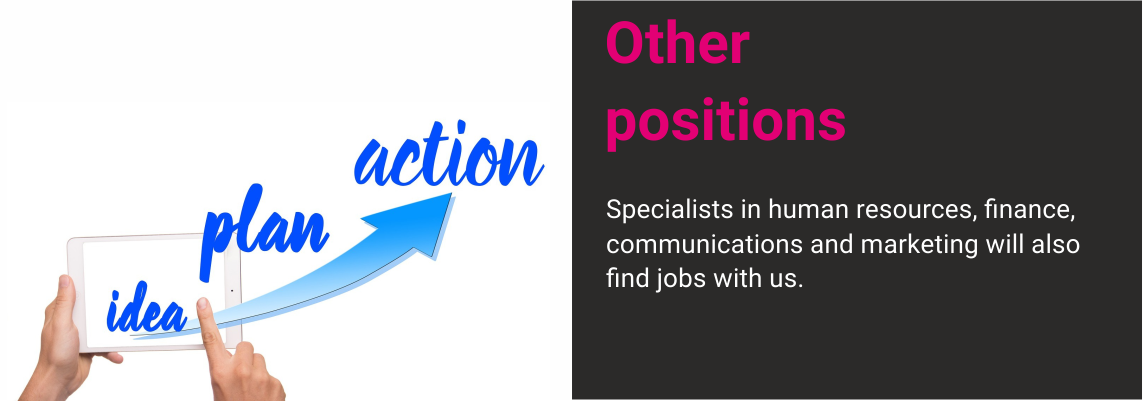
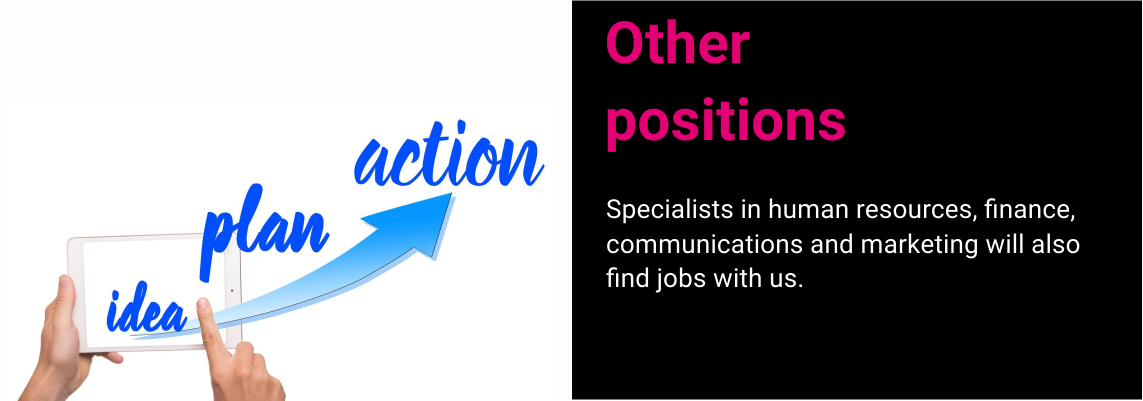
index updated, css updated

diff --git a/src/main/resources/templates/index.html b/src/main/resources/templates/index.html
@@ -13,10 +13,135 @@
 
 <body>
 	<div class="container-fluid">
+		<div class="row">
+			<section class="col-6 screen-one">
+			
+			<div class="content">
+		
+			<img class="mt-2 logotsystems w-50" th:src="@{/img/t-systemslogo.svg}" alt="Logo T-Systems" />
+			<h1 class="text-white text-center">Looking for a job ? </h1>
+			<h4  class="text-white text-center">Everyone has an opportunity with us</h4>
+			
+			</div>
+			<div class="content">
+			<div id="carouselControls" class="carousel slide" data-ride="carousel">
+			  <div class="carousel-inner">
+			    <div class="carousel-item active">
+			    
+			    <img th:src="@{/img/TechnicalPosition.png}" class="w-100" alt="Technical Position" />
+			    </div>
+			    <div class="carousel-item">
+			    <img th:src="@{/img/ProcessPosition.png}" class=" w-100" alt="ProcessPosition" />
+			   
+			    </div>
+			    <div class="carousel-item">
+			     <img th:src="@{/img/ProjectPosition.png}" class=" w-100" alt="ProjectPosition" />
+			      
+			    </div>
+			    <div class="carousel-item">
+			    	<img th:src="@{/img/Otherposition.png}" class=" w-100" alt="OtherPosition" />
+			      
+			    </div>
+			  </div>
+			</div>
+			</div>
+			</section>
+			<img class="mt-4 smallLogo" th:src="@{/img/t-systemslogo.svg}"
+			alt="Logo T-Systems" />
+			
+			<section class="col-6 screen-two">
+				<table class="table table-striped  table-bordered">
+					<thead class="thead-dark">
+						<tr>
+							<th class="first">Job title</th>
+							<th>Position ID</th>
+							<th>Employment type</th>
+							<th>Posted</th>
+						</tr>
+					</thead>
+			<tbody>
+				<tr class="specialRow"
+					th:each="position : ${@mainController.positionList}">
+					<th class="first" th:text="${position.positionTitle}"></th>
+					<th><span th:text="${position.jobId}"></span></th>
+					<th><span th:text="${position.employmentType}"></span></th>
+					<th><span th:text="${position.publicationStartDate}"></span></th>
+				</tr>
+			</tbody>
+		</table>
+			</section>
+		</div>
+</div>
+<div class="container-fluid">
+		<div class="row">
+			<section class="col-6 screen-three">
+				<div class="container-fluid">
+				<div class="row">
+					<ul class="col-6" th:each="position : ${@mainController.all}">
+							<li ><strong><span th:text="${position.positionTitle}"></span></strong></li>
+							<li><strong>Job ID:</strong><span th:text="${position.jobId}"></span></li>
+							<li><strong>Date of release:</strong><span th:text="${position.publicationStartDate}"></span></li>
+						    <li><strong>Application deadline:</strong><span th:text="${position.applicationDeadline}"></span></li>
+						    <li><strong>Employment type:</strong><span th:text="${position.employmentType}"></span></li>
+						</ul>	
+						<img class="img-thumbnail img-responsive qrcode" th:src="@{/img/QRs/6109.png}" alt="QRCode" />
+						
+				</div>
+			
+			
+			
+				<div class="row">
+					<div class="card text-white mb-3 col-6">
+						<div class="card-header"><h3><strong>Job description</strong></h3></div>
+						<div class="card-body" th:each="position : ${@mainController.all}">
+							<!-- <p class="card-text"><span th:utext="${position.jobDescription}"></span></p>  -->
+						</div>
+					</div>	
+					 <div class="card text-white mb-3 col-6">
+						<div class="card-header"><h3><strong>Job requirements</strong></h3></div>
+							<div class="card-body" th:each="position : ${@mainController.all}">
+							<!-- <p class="card-text"><span th:utext="${position.requirementDescription}"></span></p> -->
+						</div> 
+					</div>
+				</div>
+				</div>
+			</section>
+			
+			<section class="col-6 screen-four">
+			
+			
+			</section>
+		</div>
+		</div>
+<div th:replace="/fragments/footer :: footer"/>
+		
 	
+		
+		
+</body>
+</html>
+
+
+
+
+
+<!--  <!DOCTYPE HTML>
+<html xmlns:th="http://www.thymeleaf.org">
+<head>
+    <title>Home page</title>
+    <meta http-equiv="Content-Type" content="text/html; charset=UTF-8"/>
+    <link href="https://fonts.googleapis.com/css?family=Roboto:300,400,700&display=swap&subset=latin-ext" rel="stylesheet">
+    <link rel="stylesheet" href="https://cdnjs.cloudflare.com/ajax/libs/animate.css/3.7.2/animate.min.css">
+    <link rel="stylesheet" href="https://stackpath.bootstrapcdn.com/bootstrap/4.4.1/css/bootstrap.min.css" integrity="sha384-Vkoo8x4CGsO3+Hhxv8T/Q5PaXtkKtu6ug5TOeNV6gBiFeWPGFN9MuhOf23Q9Ifjh" crossorigin="anonymous">
+    <link rel="stylesheet" th:href="@{/css/style.css}"/>
+    <link rel="stylesheet" th:href="@{/css/positionList.css}" />
+    
+</head>
+
+<body>
+	<div class="container-fluid">
 	
-	
-	
+
 		<div class="row">
 			<section class="col-6 screen-one">
 			
@@ -90,19 +215,19 @@
 						    <li class="list-group-item"><strong>Employment type:</strong><span th:text="${position.employmentType}"></span></li>
 						</ul>
 						
-						<img class="img-thumbnail img-responsive qrcode" th:src="@{/img/QRs/4009.png}" alt="QRCode" />
+						<img class="img-thumbnail img-responsive qrcode" th:src="@{/img/QRs/6109.png}" alt="QRCode" />
 				</div>
 			
 			
 			
 				<div class="row">
-					<div class="card text-white bg-dark mb-3 col-6">
+					<div class="card text-white bg-dark mb-3 col-5">
 						<div class="card-header"><h3><strong>Job description</strong></h3></div>
 						<div class="card-body" th:each="position : ${@mainController.all}">
 							<p class="card-text"><span th:utext="${position.jobDescription}"></span></p>
 						</div>
 					</div>	
-				 <div class="card text-white bg-dark mb-3 col-6">
+				 <div class="card text-white bg-dark mb-3 col-5 offset-1">
 					<div class="card-header"><h3><strong>Job requirements</strong></h3></div>
 					<div class="card-body" th:each="position : ${@mainController.all}">
 						<p class="card-text"><span th:utext="${position.requirementDescription}"></span></p>
@@ -121,4 +246,4 @@
 		
 		
 </body>
-</html>
+</html>-->

diff --git a/src/main/resources/static/css/style.css b/src/main/resources/static/css/style.css
@@ -1,8 +1,9 @@
+/*
 *{
 	font-family: 'Roboto', sans-serif;
 }
 body{
-	background: url('/img/bgpage.png');
+	background: url('../img/bgpage.png');
 	background-size: cover;
 }
 .content h3{
@@ -18,7 +19,7 @@ section{
 h1{
 	text-align: center;
 	font-size: 3em;
-	margin-top: 0.3em;
+	margin-top: 3.3em;
 	margin-bottom: .5em;
 }
 .global-footer{
@@ -50,5 +51,85 @@ h1{
 }
 .content{
 	margin: 0 auto;
+}
+.card-header {
+	border-bottom: 1px solid #ED008C;
+}
+
+.title {
+	list-style: none;
+	color: #ED008C;
+}
+h3 strong{
+	color: #ED008C;
+}
+p,li{
+	font-size: 0.8em;
+}
+.offset-1 {
+    margin-left: 1.333333%;
+}
+
+*/  
+
+*{
+	font-family: 'Roboto', sans-serif;
+}
+body{
+	background: url('../img/woodbg.jpg');
+	background-size: cover;
+}
+.content h3{
+	margin-bottom: 1.5em;
+	text-align: center;
+	color: white;
+}
+section{
+	padding: 0.1em;
+}
+.logotsystems{
+	width: 10em;
+}
+h1{
+	text-align: center;
+	margin-top: 0.1em;
+	margin-bottom:0;
+	color: white;
+}
+.global-footer{
 	
+	background: black;
+}
+.global-footer p{
+	margin-top: 0.6em;
+	margin-bottom: 0;
+}
+.col-6{
+	padding: 0.2em;
+}
+.card-body > p:nth-child(11){
+	display: none;
+}
+.qrcode{
+	width: 10em;
+    height: 9.5em;
+}
+.content{
+	margin: 0 auto;
+}
+.card{
+	background: black;
+	border: 1px solid #e20074;
+}
+.card-header {
+	border-bottom: 1px solid #ED008C;
+}
+h3 strong{
+	color: #ED008C;
+}
+ .offset-1 {
+    margin-left: 1.333333%;
+}
+p,li{
+	color: white;
 }

diff --git a/src/main/resources/static/css/positionList.css b/src/main/resources/static/css/positionList.css
@@ -1,4 +1,4 @@
-
+/*
 img{
 	width: 15em;
 
@@ -34,5 +34,64 @@ img{
 th{
 	font-size: 0.8em;
 }
+*/
+
+
+img{
+	width: 15em;
+
+}
+
+.smallLogo{
+	position: absolute;
+	right:0;
+}
+.box{
+	padding-left:3em;
+	background: #b6b6b6;
+}
+.mt-4{
+	padding-left: 4em;
+
+    margin: 3em;
+}
+
+.specialRow{
+	background-color: #aeaeae;
+}
+.titleBox{
+	background-color: #aeaeae;
+}
+
+.first{
+	width: 40%;
+	font-size: 1em;
+	color:#ED008C;
+}
+
+th{
+	font-size: 1em;
+	color: white;
+	background: black;
+}
+.table td, .table th{
+	padding: 1em;
+}
+
+.table .thead-dark th,.table-bordered td, .table-bordered th {
+    border: 2px solid #c0c0c0;
+}
+
+.table .thead-dark th{
+	background: white;
+	color: black;
+}
+h1{
+	font-size: 5em;
+}
+h3{
+	font-size: 2em;
+}
+
 
 
